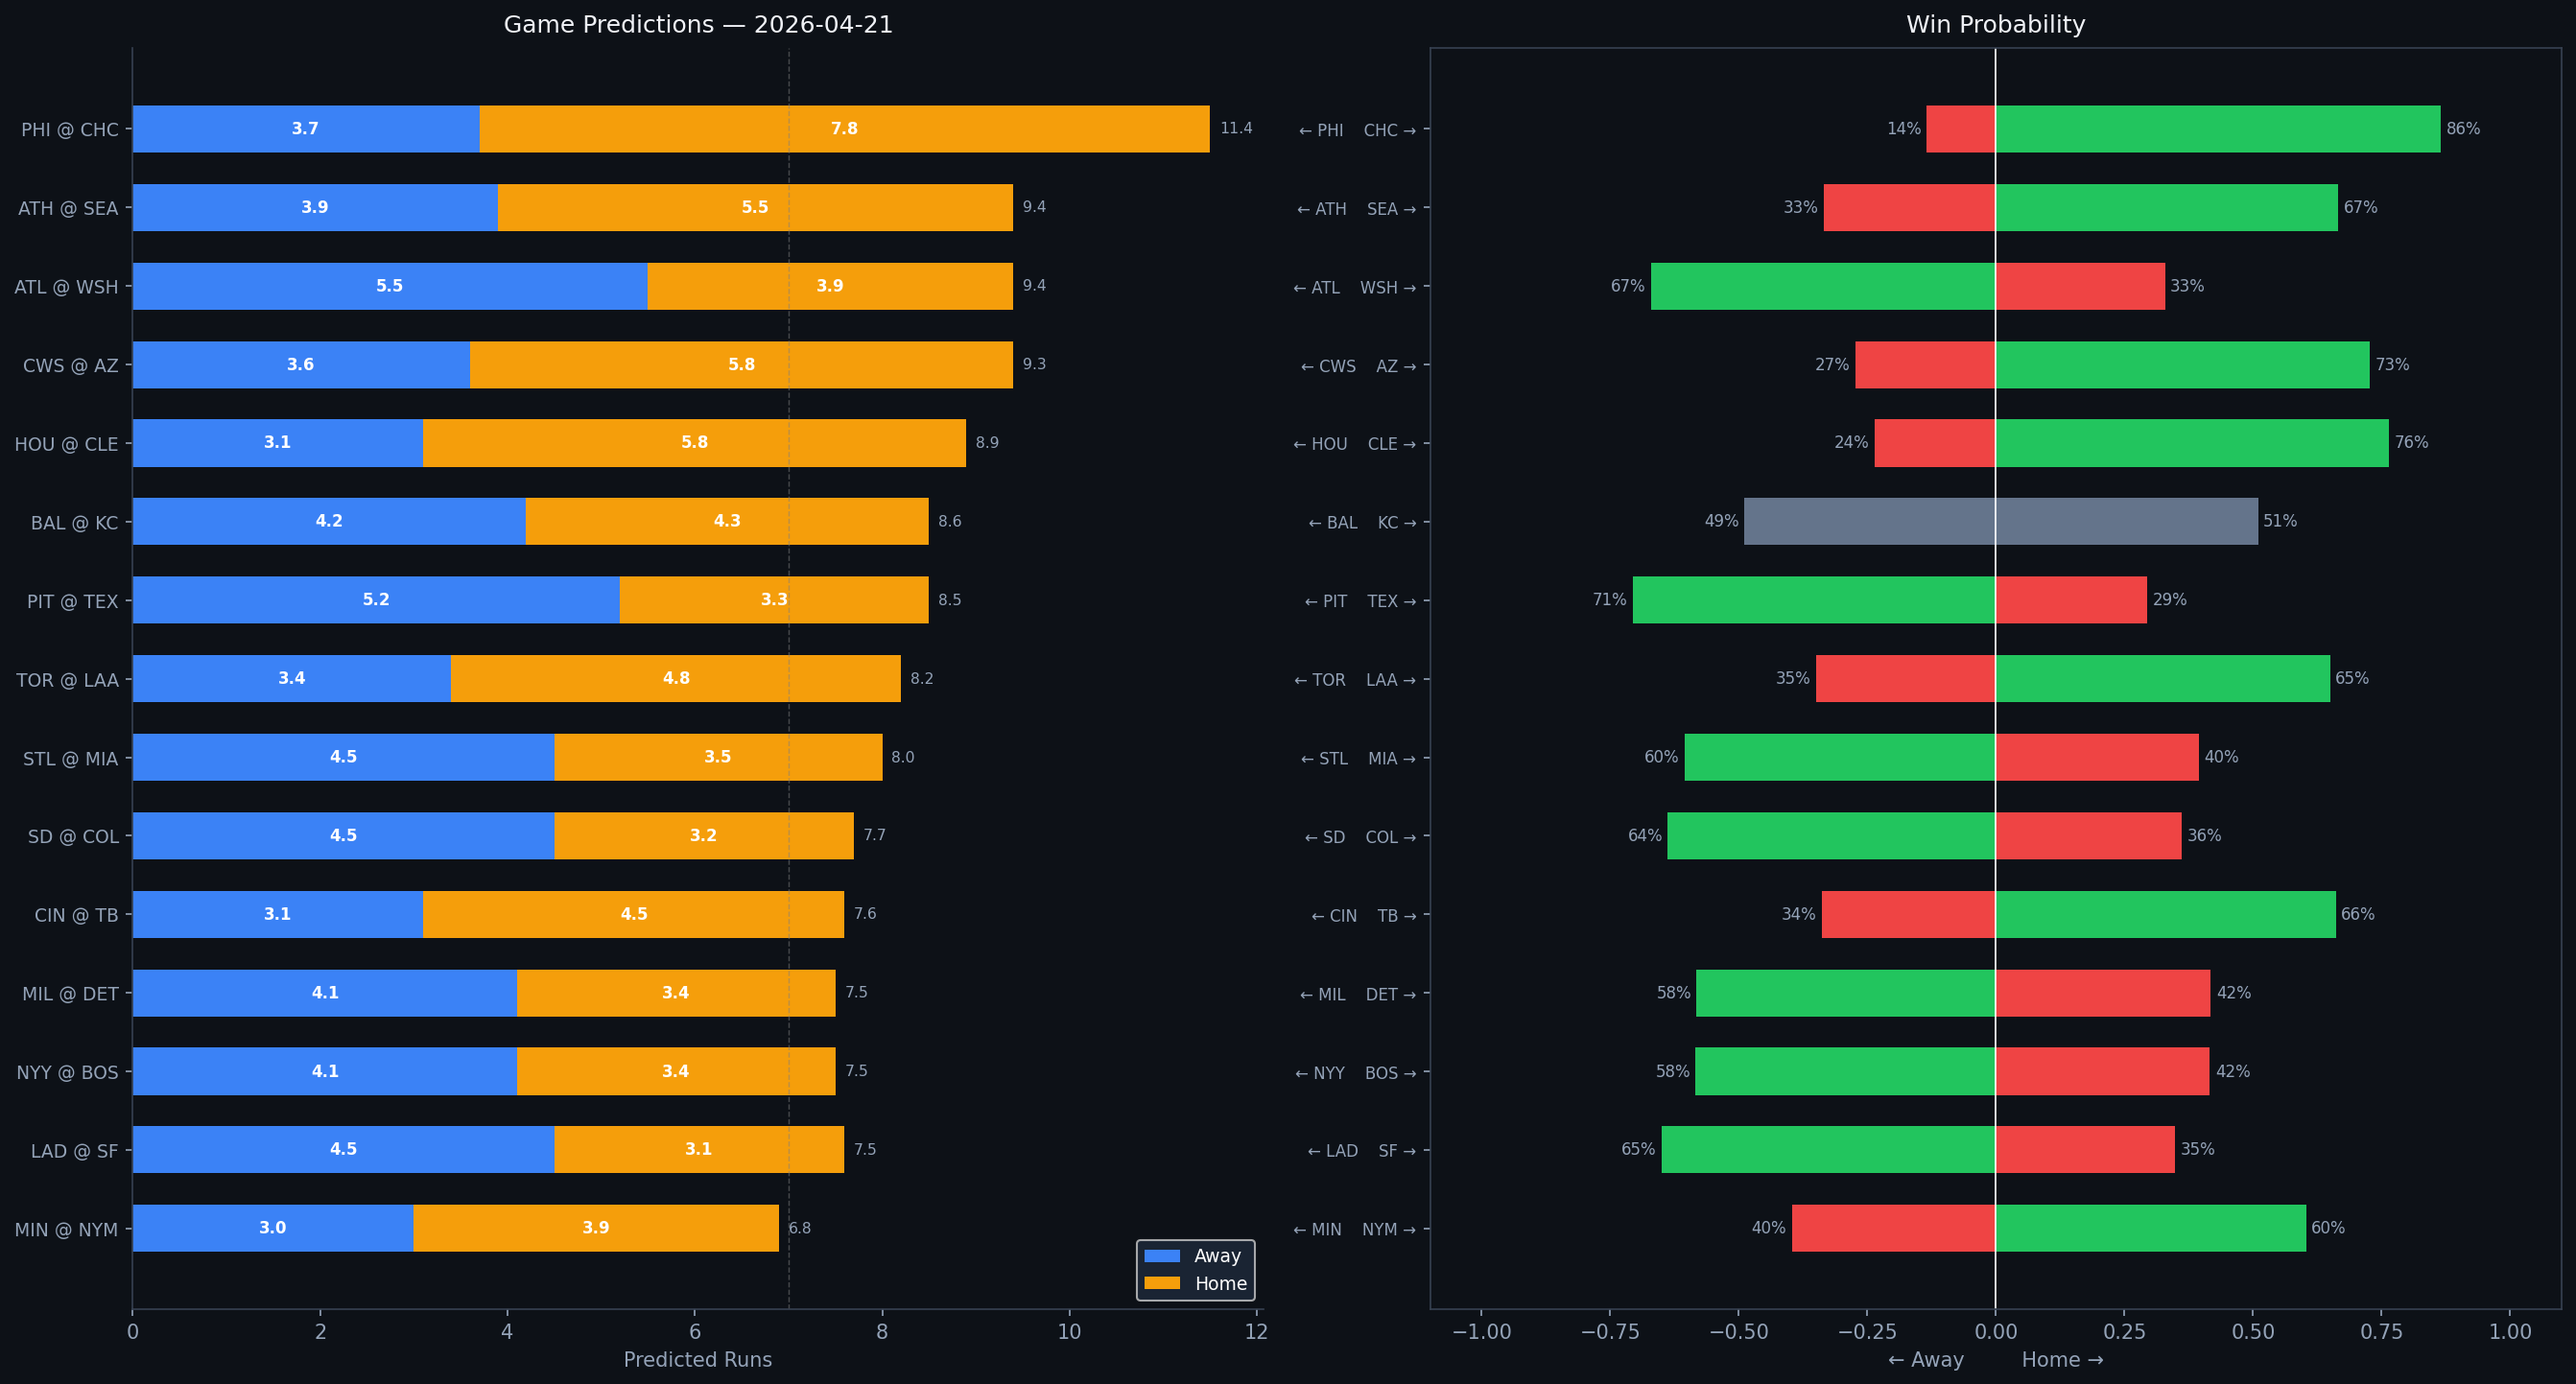
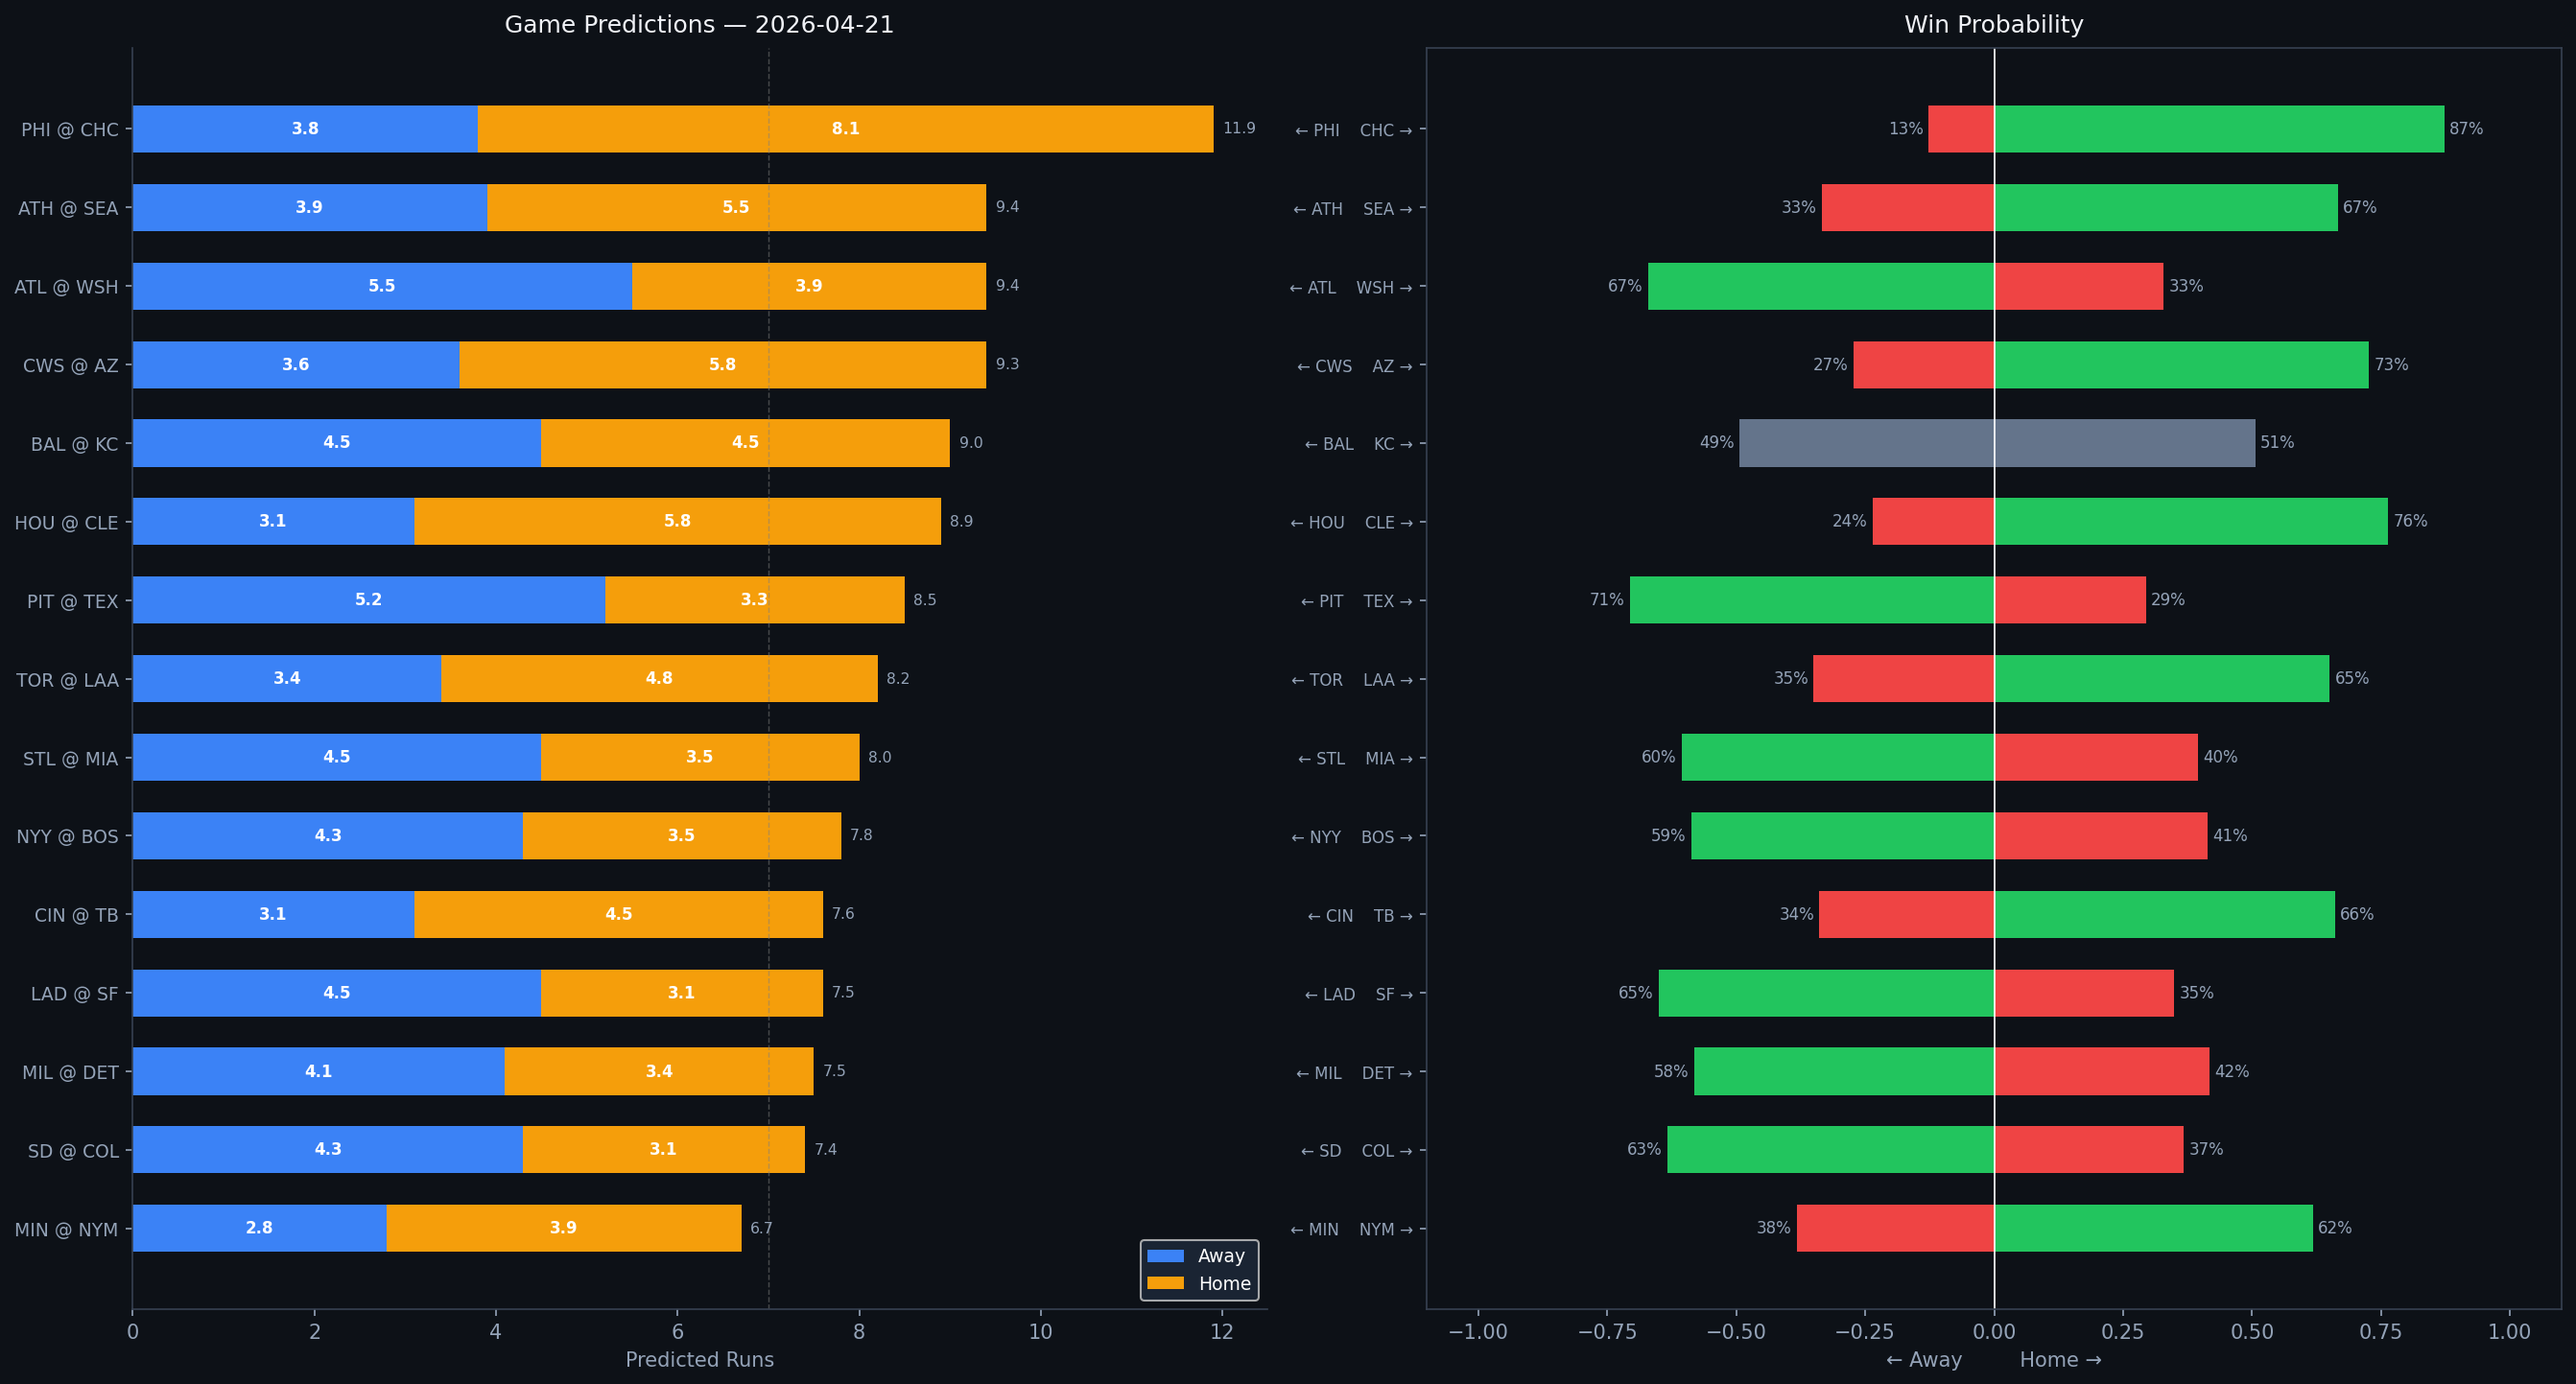
predictions: 2026-04-21 [skip ci]

diff --git a/docs/index.html b/docs/index.html
@@ -60,7 +60,7 @@
       </div>
       <div class="meta-card">
         <div class="label">Avg Total Runs</div>
-        <div class="value">8.4</div>
+        <div class="value">8.5</div>
       </div>
       <div class="meta-card">
         <div class="label">Highest Scoring</div>
@@ -99,16 +99,16 @@
           
         <tr>
           <td class="matchup">PHI @ CHC</td>
-          <td class="score">3.7 – 7.8</td>
+          <td class="score">3.8 – 8.1</td>
           <td class="winner-home">CHC</td>
-          <td>86% / 14%</td>
-          <td class="total">11.4</td>
+          <td>87% / 13%</td>
+          <td class="total">11.9</td>
           <td>0.773 / 0.852</td>
           <td>0.345 / 0.251</td>
           <td>14.4% / 13.0%</td>
           <td>Jesús Luzardo (4.31)</td>
           <td>Shota Imanaga (3.23)</td>
-          <td class="weather">72°F / 8mph / 10% rain</td>
+          <td class="weather">88°F / 13mph / 0% rain</td>
         </tr>
         <tr>
           <td class="matchup">ATH @ SEA</td>
@@ -121,7 +121,7 @@
           <td>11.0% / 9.2%</td>
           <td>Jacob Lopez (4.51)</td>
           <td>Luis Castillo (3.58)</td>
-          <td class="weather">71°F / 10mph / 0% rain</td>
+          <td class="weather">72°F / 8mph / 10% rain</td>
         </tr>
         <tr>
           <td class="matchup">ATL @ WSH</td>
@@ -134,7 +134,7 @@
           <td>9.6% / 11.7%</td>
           <td>Reynaldo López (3.9)</td>
           <td>Foster Griffin (4.08)</td>
-          <td class="weather">86°F / 11mph / 0% rain</td>
+          <td class="weather">88°F / 13mph / 0% rain</td>
         </tr>
         <tr>
           <td class="matchup">CWS @ AZ</td>
@@ -147,7 +147,20 @@
           <td>11.7% / 11.0%</td>
           <td>Sean Burke (3.94)</td>
           <td>Merrill Kelly (3.76)</td>
-          <td class="weather">50°F / 6mph / 0% rain</td>
+          <td class="weather">72°F / 8mph / 10% rain</td>
+        </tr>
+        <tr>
+          <td class="matchup">BAL @ KC</td>
+          <td class="score">4.5 – 4.5</td>
+          <td class="winner-home">KC</td>
+          <td>51% / 49%</td>
+          <td class="total">9.0</td>
+          <td>0.717 / 0.697</td>
+          <td>0.295 / 0.293</td>
+          <td>12.0% / 11.5%</td>
+          <td>Shane Baz (4.3)</td>
+          <td>Kris Bubic (4.13)</td>
+          <td class="weather">88°F / 13mph / 0% rain</td>
         </tr>
         <tr>
           <td class="matchup">HOU @ CLE</td>
@@ -160,20 +173,7 @@
           <td>11.4% / 9.2%</td>
           <td>Ryan Weiss (6.75)</td>
           <td>Parker Messick (2.07)</td>
-          <td class="weather">79°F / 17mph / 0% rain</td>
-        </tr>
-        <tr>
-          <td class="matchup">BAL @ KC</td>
-          <td class="score">4.2 – 4.3</td>
-          <td class="winner-home">KC</td>
-          <td>51% / 49%</td>
-          <td class="total">8.6</td>
-          <td>0.717 / 0.707</td>
-          <td>0.295 / 0.301</td>
-          <td>12.0% / 11.8%</td>
-          <td>Shane Baz (4.3)</td>
-          <td>Kris Bubic (4.13)</td>
-          <td class="weather">72°F / 8mph / 10% rain</td>
+          <td class="weather">79°F / 16mph / 0% rain</td>
         </tr>
         <tr>
           <td class="matchup">PIT @ TEX</td>
@@ -199,7 +199,7 @@
           <td>9.8% / 11.7%</td>
           <td>Patrick Corbin (4.51)</td>
           <td>Jack Kochanowicz (5.5)</td>
-          <td class="weather">67°F / 10mph / 7% rain</td>
+          <td class="weather">72°F / 8mph / 10% rain</td>
         </tr>
         <tr>
           <td class="matchup">STL @ MIA</td>
@@ -212,20 +212,20 @@
           <td>9.2% / 10.9%</td>
           <td>Dustin May (4.04)</td>
           <td>Chris Paddack (4.67)</td>
-          <td class="weather">64°F / 10mph / 40% rain</td>
+          <td class="weather">62°F / 6mph / 13% rain</td>
         </tr>
         <tr>
-          <td class="matchup">SD @ COL</td>
-          <td class="score">4.5 – 3.2</td>
-          <td class="winner-away">SD</td>
-          <td>36% / 64%</td>
-          <td class="total">7.7</td>
-          <td>0.685 / 0.737</td>
-          <td>0.334 / 0.317</td>
-          <td>11.7% / 11.7%</td>
-          <td>Randy Vásquez (3.96)</td>
-          <td>TBD (4.5)</td>
-          <td class="weather">86°F / 11mph / 0% rain</td>
+          <td class="matchup">NYY @ BOS</td>
+          <td class="score">4.3 – 3.5</td>
+          <td class="winner-away">NYY</td>
+          <td>41% / 59%</td>
+          <td class="total">7.8</td>
+          <td>0.696 / 0.777</td>
+          <td>0.298 / 0.332</td>
+          <td>7.6% / 14.3%</td>
+          <td>Luis Gil (3.62)</td>
+          <td>Connelly Early (2.31)</td>
+          <td class="weather">88°F / 13mph / 0% rain</td>
         </tr>
         <tr>
           <td class="matchup">CIN @ TB</td>
@@ -238,33 +238,7 @@
           <td>9.6% / 12.6%</td>
           <td>Chase Burns (3.84)</td>
           <td>Steven Matz (4.19)</td>
-          <td class="weather">86°F / 11mph / 0% rain</td>
-        </tr>
-        <tr>
-          <td class="matchup">MIL @ DET</td>
-          <td class="score">4.1 – 3.4</td>
-          <td class="winner-away">MIL</td>
-          <td>42% / 58%</td>
-          <td class="total">7.5</td>
-          <td>0.724 / 0.659</td>
-          <td>0.364 / 0.315</td>
-          <td>13.0% / 9.6%</td>
-          <td>Kyle Harrison (4.3)</td>
-          <td>Keider Montero (4.47)</td>
-          <td class="weather">76°F / 16mph / 14% rain</td>
-        </tr>
-        <tr>
-          <td class="matchup">NYY @ BOS</td>
-          <td class="score">4.1 – 3.4</td>
-          <td class="winner-away">NYY</td>
-          <td>42% / 58%</td>
-          <td class="total">7.5</td>
-          <td>0.696 / 0.777</td>
-          <td>0.298 / 0.332</td>
-          <td>7.6% / 14.3%</td>
-          <td>Luis Gil (3.62)</td>
-          <td>Connelly Early (2.31)</td>
-          <td class="weather">72°F / 8mph / 10% rain</td>
+          <td class="weather">88°F / 13mph / 0% rain</td>
         </tr>
         <tr>
           <td class="matchup">LAD @ SF</td>
@@ -277,20 +251,46 @@
           <td>8.5% / 12.1%</td>
           <td>Yoshinobu Yamamoto (2.61)</td>
           <td>Landen Roupp (3.56)</td>
-          <td class="weather">58°F / 8mph / 1% rain</td>
+          <td class="weather">57°F / 11mph / 1% rain</td>
+        </tr>
+        <tr>
+          <td class="matchup">MIL @ DET</td>
+          <td class="score">4.1 – 3.4</td>
+          <td class="winner-away">MIL</td>
+          <td>42% / 58%</td>
+          <td class="total">7.5</td>
+          <td>0.724 / 0.659</td>
+          <td>0.364 / 0.315</td>
+          <td>13.0% / 9.6%</td>
+          <td>Kyle Harrison (4.3)</td>
+          <td>Keider Montero (4.47)</td>
+          <td class="weather">77°F / 14mph / 17% rain</td>
+        </tr>
+        <tr>
+          <td class="matchup">SD @ COL</td>
+          <td class="score">4.3 – 3.1</td>
+          <td class="winner-away">SD</td>
+          <td>37% / 63%</td>
+          <td class="total">7.4</td>
+          <td>0.685 / 0.737</td>
+          <td>0.334 / 0.317</td>
+          <td>11.7% / 11.7%</td>
+          <td>Randy Vásquez (3.96)</td>
+          <td>TBD (4.5)</td>
+          <td class="weather">72°F / 8mph / 10% rain</td>
         </tr>
         <tr>
           <td class="matchup">MIN @ NYM</td>
-          <td class="score">3.0 – 3.9</td>
+          <td class="score">2.8 – 3.9</td>
           <td class="winner-home">NYM</td>
-          <td>60% / 40%</td>
-          <td class="total">6.8</td>
-          <td>0.662 / 0.733</td>
-          <td>0.316 / 0.302</td>
-          <td>13.6% / 11.9%</td>
+          <td>62% / 38%</td>
+          <td class="total">6.7</td>
+          <td>0.662 / 0.735</td>
+          <td>0.316 / 0.305</td>
+          <td>13.6% / 12.5%</td>
           <td>Simeon Woods Richardson (4.35)</td>
           <td>Nolan McLean (2.13)</td>
-          <td class="weather">72°F / 8mph / 10% rain</td>
+          <td class="weather">51°F / 11mph / 1% rain</td>
         </tr>
         </tbody>
       </table>
